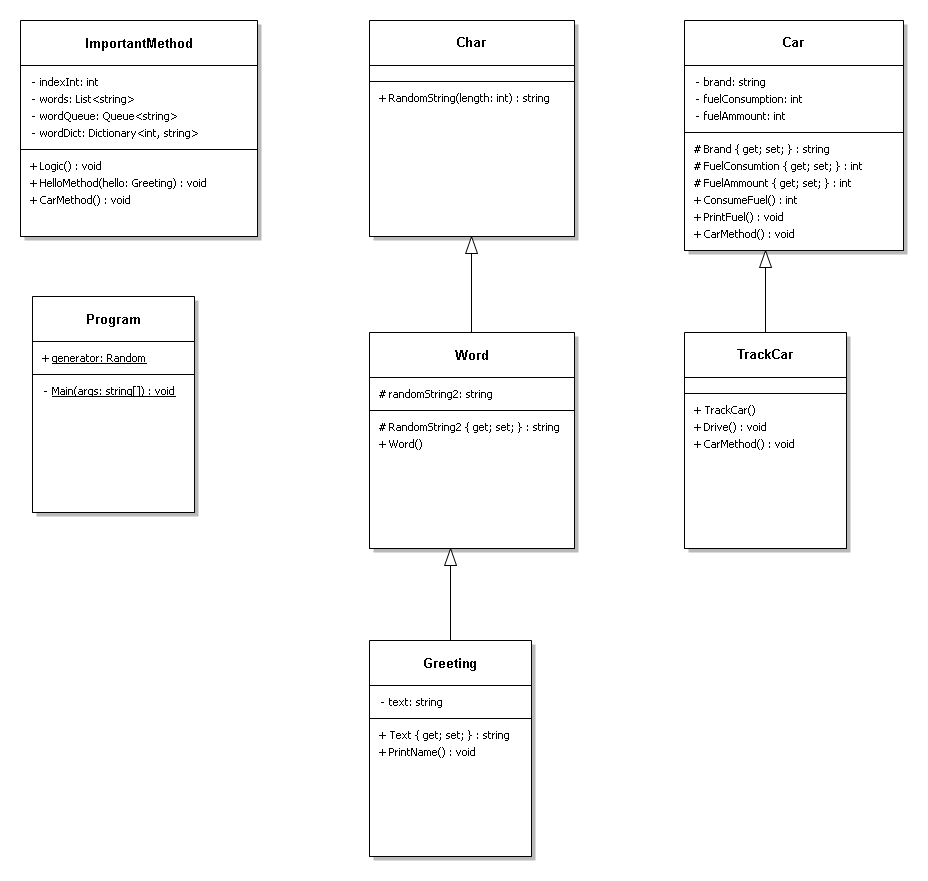
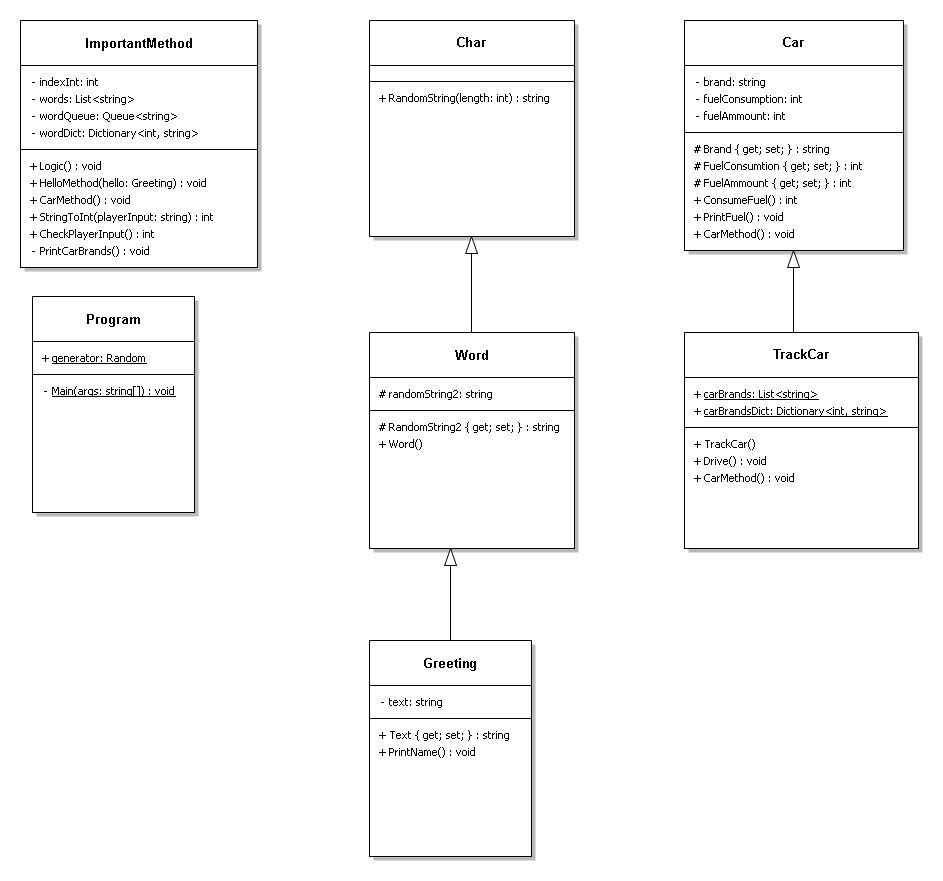
Refuel, not finished

diff --git a/Slutprojektet2/ImportantMethod.cs b/Slutprojektet2/ImportantMethod.cs
@@ -37,7 +37,7 @@ namespace Slutprojektet2
             words.Add(wordQueue.Dequeue());
 
             wordDict.Add(indexInt, words[0]);
-            
+
             // Skriver ut alla Keys i wordDict-Dictionaryt
             // så att användaren kan se alla platser i den
             foreach (int key in wordDict.Keys)
@@ -51,12 +51,106 @@ namespace Slutprojektet2
         // Använder sig av polymorfism i slaget av virtual och override samt forced
         public void CarMethod()
         {
-            Car trackCar = new TrackCar();
+            PrintCarBrands();
 
+            System.Console.WriteLine("\nEnter the corresponding index to the desired brand: \n(entering the name of the brand will not work)");
+
+            // En int som användaren specificerar, importeras sedan till TrackCar som en parameter till dess konstruktor
+            int toImport = CheckPlayerInput();
+
+            Console.Clear();
+
+            Car trackCar = new TrackCar(toImport);
+
+            
             ((TrackCar)trackCar).Drive();
-            trackCar.CarMethod();
 
             trackCar.PrintFuel();
+
+
+            ((TrackCar)trackCar).AskForRefuel();
+
+            
+            trackCar.CarMethod();
+        }
+
+        // Konverterar input som ges av CheckPlayerInput-metoden till en int
+        // Detta används för att säkerställa att användaren faktiskt skriver in en int, istället för en string
+        // Returnerar den konverterade stringen
+        public static int StringToInt(string playerInput)
+        {
+            int result = 0;
+            bool success = int.TryParse(playerInput, out result);
+
+            while (success != true)
+            {
+                System.Console.WriteLine("Please enter a number. Try again.");
+                playerInput = Console.ReadLine().Trim();
+                success = int.TryParse(playerInput, out result);
+            }
+
+            return result;
+        }
+
+        // Hämtar in användardata och kallar på StringToInt-metoden för att säkerställa att det är en int, instället för en string
+        private int CheckPlayerInput()
+        {
+            string playerInput = Console.ReadLine().Trim();
+            int intedString = StringToInt(playerInput);
+
+            // Ser till att man väljer en plats i listan som existerar
+            // Dictionaryt används bara för att presenterar användaren om alternativen som finns
+            // inte för faktisk logik, då det är (i min åsikt) mer effektivt att istället enbart använda listan
+            while (intedString <= 0 || intedString > TrackCar.carBrands.Count)
+            {
+                System.Console.WriteLine("The chosen brand does not exist.\nPlease try again.");
+
+                playerInput = Console.ReadLine().Trim();
+                intedString = StringToInt(playerInput);
+            }
+
+            return intedString;
+        }
+
+        public static int CheckPlayerInput2()
+        {
+            string playerInput = Console.ReadLine().Trim();
+            int intedString = ImportantMethod.StringToInt(playerInput);
+
+            // Ser till att man väljer en plats i listan som existerar
+            // Dictionaryt används bara för att presenterar användaren om alternativen som finns
+            // inte för faktisk logik, då det är (i min åsikt) mer effektivt att istället enbart använda listan
+            while (intedString != 1 && intedString != 2)
+            {
+                System.Console.WriteLine("The chosen option does not exist.\nPlease try again.");
+
+                playerInput = Console.ReadLine().Trim();
+                intedString = StringToInt(playerInput);
+            }
+
+            return intedString;
+        }
+
+        // Skriver ut alla bilmärken så att användaren kan gå vidare i programmet
+        private void PrintCarBrands()
+        {
+            System.Console.WriteLine("\n\nWhich car brand do you want to select?\n");
+            System.Console.WriteLine("These are the available brands:");
+
+            // Lägger till allt som finns i listan till dictionary
+            for (int i = 0; i < TrackCar.carBrands.Count; i++)
+            {
+                // Index i listor börjar på 0, men vill att det visuella indexet ska börja på 1
+                // För att lösa detta så ökar indexet med 1 för varje steg bland alla index
+                // Genom denna lösning börjar Dictionaryts index 0 att lista en 1:a
+                TrackCar.carBrandsDict.Add(i + 1, TrackCar.carBrands[i]);
+            }
+
+            // Skriver ut alla bilmärken som finns i Dictionaryt samt dess index (börjar på 1 istället för 0, se ovan)
+            foreach (int key in TrackCar.carBrandsDict.Keys)
+            {
+                System.Console.WriteLine(key + ": | " + TrackCar.carBrandsDict[key]);
+            }
         }
     }
 }

diff --git a/Slutprojektet2/Car.cs b/Slutprojektet2/Car.cs
@@ -8,9 +8,10 @@ namespace Slutprojektet2
         // Dessa värden är place-holder värden som ska defineras om hos den ärvande klassen
         private string brand = "";
         private int fuelConsumtion = 100;
-        private int fuelAmmount = 0;
+        private int fuelAmount = 0;
+        private int fuelAmountFull = 0;
 
-        // Tillhörande property till de privata variablerna
+        // Tillhörande properties till de privata variablerna
         protected string Brand
         {
             get
@@ -37,20 +38,38 @@ namespace Slutprojektet2
             }
         }
 
-        protected int FuelAmmount
+        protected int FuelAmount
         {
             get
             {
-                return fuelAmmount;
+                return fuelAmount;
             }
 
             set
             {
-                fuelAmmount = value;
+                fuelAmount = value;
 
-                if (fuelAmmount < 0)
+                if (fuelAmount < 0)
                 {
-                    fuelAmmount = 0;
+                    fuelAmount = 0;
+                }
+            }
+        }
+
+        protected int FuelAmountFull
+        {
+            get
+            {
+                return fuelAmountFull;
+            }
+
+            set
+            {
+                fuelAmountFull = value;
+
+                if (fuelAmountFull < 0)
+                {
+                    fuelAmountFull = 0;
                 }
             }
         }
@@ -58,7 +77,7 @@ namespace Slutprojektet2
         // Förbrukar bränsle genom att förbruka samma mängd som den ärvande Car-klassen har i bränsleförbrukning
         public int ConsumeFuel()
         {
-            FuelAmmount -= FuelConsumtion;
+            FuelAmount -= FuelConsumtion;
 
             return FuelConsumtion;
         }
@@ -67,7 +86,7 @@ namespace Slutprojektet2
         // Så att användaren vet hur mycket som finns kvar
         public void PrintFuel()
         {
-            System.Console.WriteLine(FuelAmmount);
+            System.Console.WriteLine(FuelAmount + " gallons\n");
         }
 
         // En metod som är gjord för att bli överskriven av den ärvande klassen
@@ -75,6 +94,33 @@ namespace Slutprojektet2
         public virtual void CarMethod()
         {
             System.Console.WriteLine("test");
+        }
+
+        public void Refuel()
+        {
+            if ((FuelAmount += FuelConsumtion) > FuelAmountFull)
+            {
+                System.Console.WriteLine("The refuelsers did not do a good job, the fueltank is overflown");
+                FuelAmount = FuelAmountFull;
+            }
+
+            else
+            {
+                System.Console.WriteLine("The refuelsers did a good job, the fueltank is not overflown");
+                FuelAmount += FuelConsumtion;
+            }
+
+            if (FuelAmount == FuelAmountFull)
+            {
+                System.Console.WriteLine("The tank is full, no more gas can be fueled");
+            }
+
+            else
+            {
+                System.Console.WriteLine("There is still some room in the tank for fuel");
+            }
+
+            System.Console.WriteLine("The car has been refuled and has now " + FuelAmount + " gallons of fuel left");
         }
     }
 }

diff --git a/Slutprojektet2/TrackCar.cs b/Slutprojektet2/TrackCar.cs
@@ -1,18 +1,28 @@
 using System;
+using System.Collections.Generic;
 
 namespace Slutprojektet2
 {
     public class TrackCar : Car
     {
+        public static List<string> carBrands = new List<string>() {"Ferrari", "McLaren", "Mercedez Benz", "Tesla"};
+        public static Dictionary<int, string> carBrandsDict = new Dictionary<int, string>();
         // Konstruktor som sätter värden för bilen,
         // dessa värden är gemensamma då de befinner sig i Car-klassen
-        public TrackCar()
+        // Har en parameter som är till för att välja bilmärke
+        // parametern sätts i ImportantMethod
+        public TrackCar(int input)
         {
             FuelConsumtion *= 2;
 
-            Brand = "Ferrari";
+            // Indexar med en mindre än användarinput eftersom att användaren ska välja ett tal som börjar på 1
+            // men eftersom att listor och arrayer indexerar från 0 uppstår problemet att det lätt hänt blir "out of range"
+            // vilket syftar på att man försöker komma åt något som inte existerar
+            // dessutom så anropar man information som ligger på en högre i index
+            Brand = carBrands[input-1];
 
-            FuelAmmount = 250;
+            FuelAmount = 250;
+            FuelAmountFull = FuelAmount;
         }
 
         // Metod som hanterar all logik relaterad till när fordonet körs
@@ -20,11 +30,39 @@ namespace Slutprojektet2
         {
             // Förbrukar bränsle som beror på vilken sorts bil
             // (för tillfället finns bara en bil, men går att bygga vidare senare)
+            System.Console.WriteLine("The " + Brand + " drives a lap around a circuit and consumes " + FuelConsumtion + " gallons of fuel.");
+            System.Console.Write("Amount of fuel left: ");
             ConsumeFuel();
         }
 
+        public void AskForRefuel()
+        {
+            System.Console.WriteLine("Do you want to refuel the " + Brand + "?");
+            System.Console.WriteLine("1: Yes   |   2: No");
+            System.Console.WriteLine("\nEnter the corresponding number to make your selection");
+
+            int temp = ImportantMethod.CheckPlayerInput2();
+
+            Console.Clear();
+            if (temp == 1)
+            {
+                Refuel();
+            }
+
+            else
+            {
+                System.Console.WriteLine("The car did not refuel");
+            }
+        }
+        // Testar om polymorfismen funkar
         public override void CarMethod()
         {
+            System.Console.WriteLine("Press ENTER to continue to see the polymorpism-test results:");
+            Console.ReadLine();
+            Console.Clear();
+
+            System.Console.WriteLine("If the Polmorphism is working it will say 'test2' below this message.");
+
             System.Console.WriteLine("test2");
             // base.CarMethod();
         }

diff --git a/Slutprojektet2/Program.cs b/Slutprojektet2/Program.cs
@@ -10,10 +10,14 @@ namespace Slutprojektet2
         {
             ImportantMethod importantMethod = new ImportantMethod();
 
+            //Skriver ut "Hello" och namnet/id:n
             importantMethod.Logic();
             
+            // All logik kopplad till bilar
+            // Klassen gör mycket, dock struktuerad med flera metoder
             importantMethod.CarMethod();
 
+            System.Console.WriteLine("\nThe program has come to an end. Goodbye!");
             Console.ReadLine();
         }
     }
